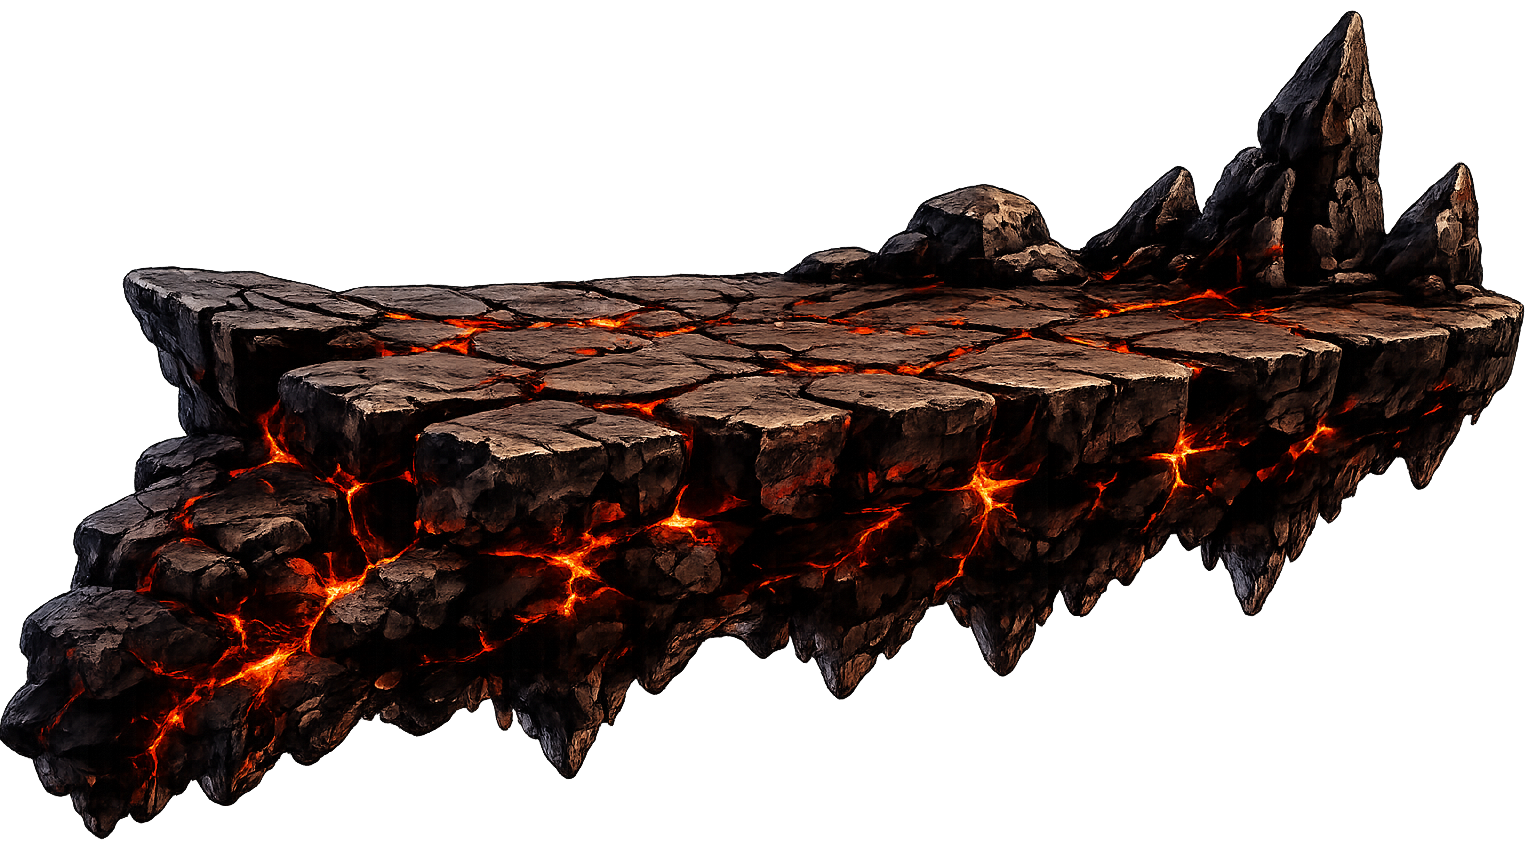
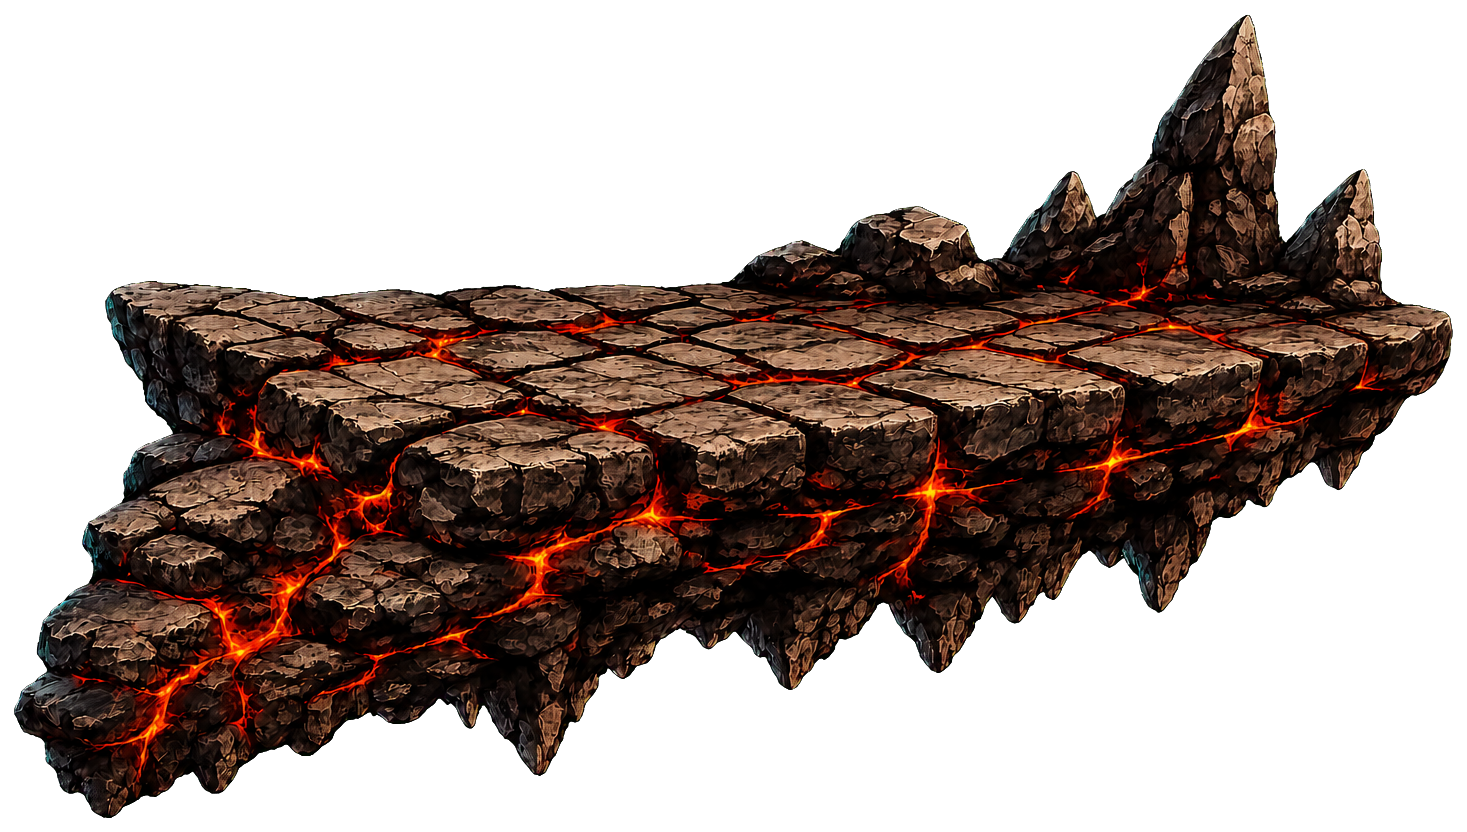
Replace Colt Run platform 15

diff --git a/app.js b/app.js
@@ -2049,6 +2049,7 @@ function startColtRunGame() {
   platformAssetVersions[0] = "20260718-platform01-replace1";
   platformAssetVersions[4] = "20260718-platform05-replace1";
   platformAssetVersions[8] = "20260718-platform09-replace1";
+  platformAssetVersions[14] = "20260718-platform15-replace1";
   const platformSpriteSources = platformAssetVersions.map((version, index) => (
     `assets/colt-run-platform-${String(index + 1).padStart(2, "0")}.png?v=${version}`
   ));

diff --git a/index.html b/index.html
@@ -8,7 +8,7 @@
 </head>
 <body>
   <main id="app" class="app-shell"></main>
-  <script src="app.js?v=20260718-platform01-replace1"></script>
+  <script src="app.js?v=20260718-platform15-replace1"></script>
 </body>
 </html>
 
